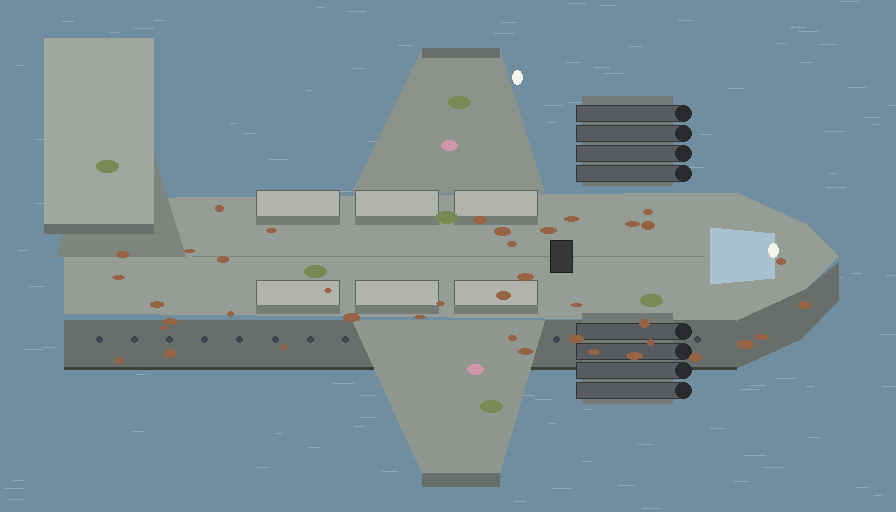
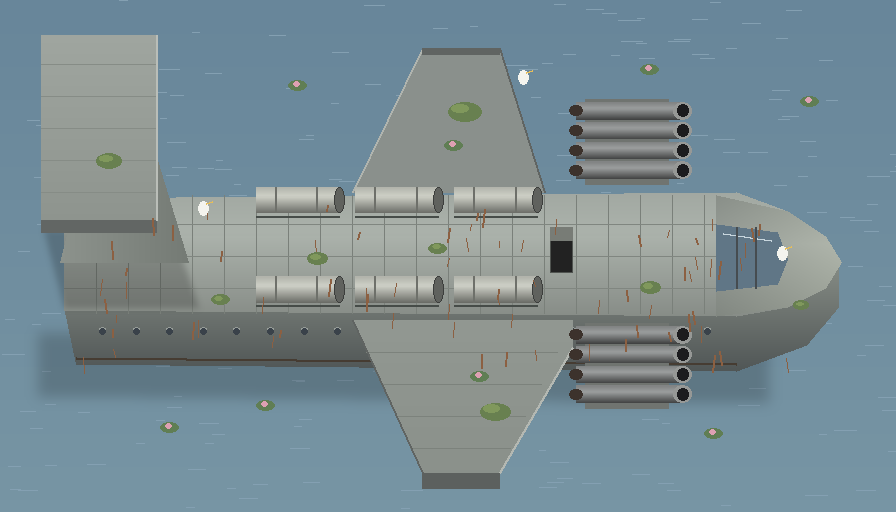
霞ヶ浦: 機体の上のマップを描き直す
- 下絵に円筒の陰影・丸い機首・パネルの線を描き込み、半分の大きさで全体の見本を作ってから、6枚の窓に分けて原寸で仕上げてつなぐ
- 形と位置は前と同じなので、当たり判定はそのまま

Claude-Session: https://claude.ai/code/session_01CdRwgmiiRbABwrAE7HmzdN

diff --git a/field/index.html b/field/index.html
@@ -8,7 +8,7 @@
   <meta name="apple-mobile-web-app-status-bar-style" content="black-translucent">
   <meta name="mobile-web-app-capable" content="yes">
   <title>ぼぎだぢ - 懲罰空間</title>
-  <link rel="stylesheet" href="./style.css?v=46">
+  <link rel="stylesheet" href="./style.css?v=47">
 </head>
 <body>
   <header class="field-header">
@@ -53,8 +53,8 @@
     <small>© Character Project</small>
   </footer>
 
-  <script src="./rpg.js?v=46"></script>
-  <script src="./worlds.js?v=46"></script>
-  <script src="./script.js?v=46"></script>
+  <script src="./rpg.js?v=47"></script>
+  <script src="./worlds.js?v=47"></script>
+  <script src="./script.js?v=47"></script>
 </body>
 </html>
